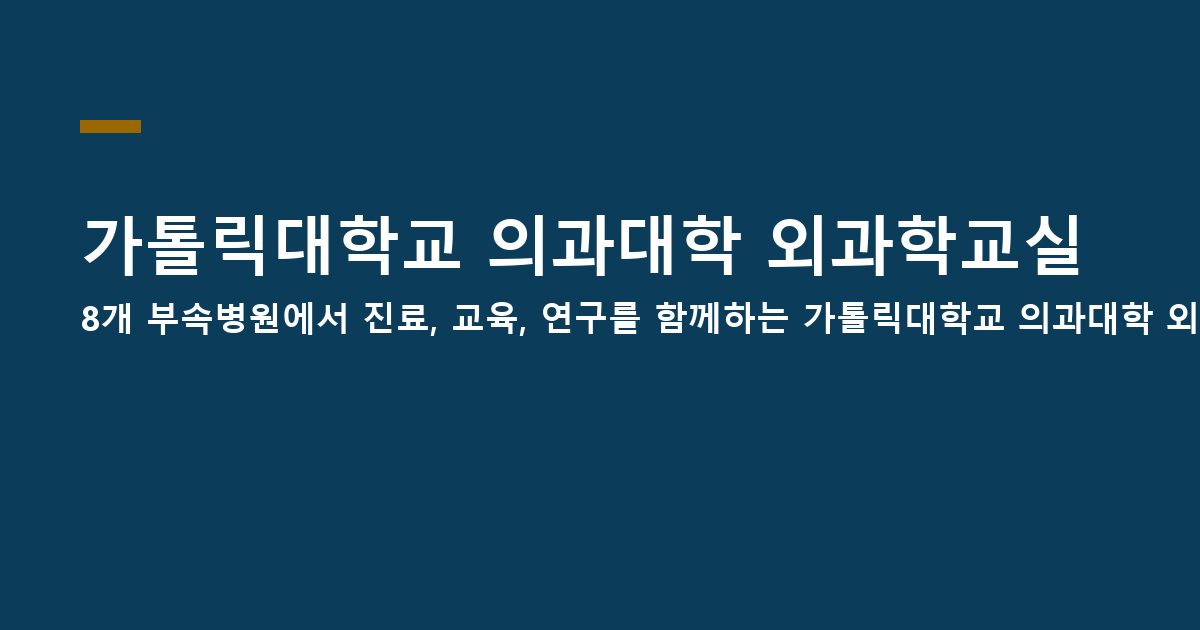
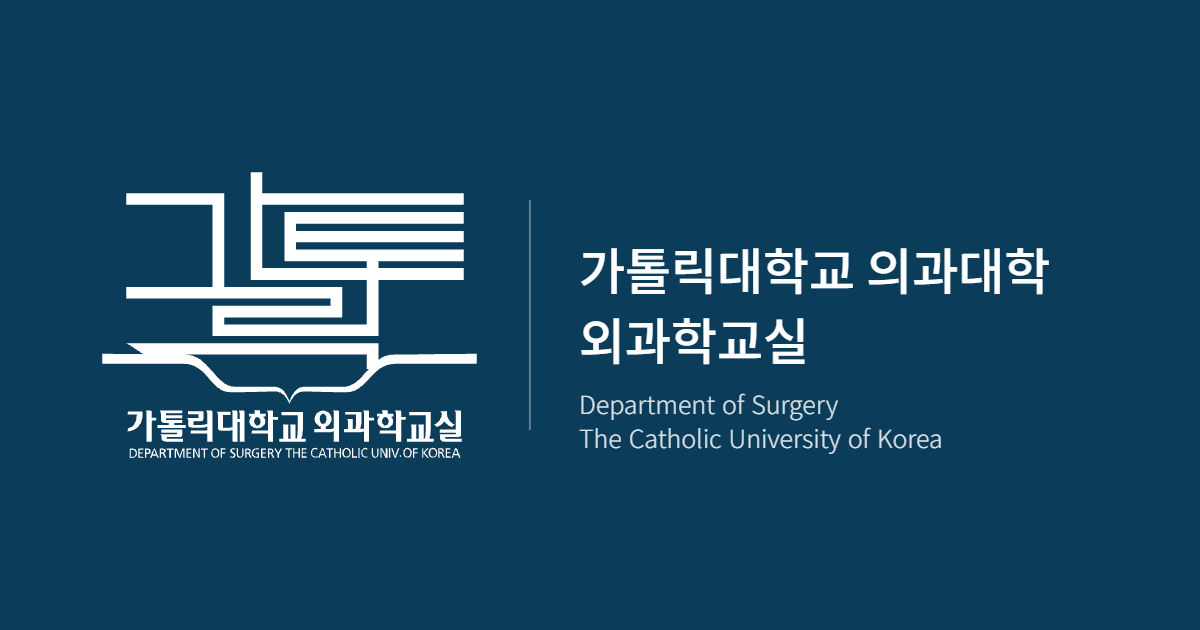
로고(교실, 가톨릭대학교), 파비콘, 공유 이미지, 스타일

Changed region(s): [[0.0617, 0.2714, 1.0, 0.7238], [0.4625, 0.6333, 0.8017, 0.7238], [0.0617, 0.181, 0.1233, 0.2111]]

diff --git a/assets/style.css b/assets/style.css
@@ -153,3 +153,69 @@ strong,b,th,.btn,.faq summary,.nav a[aria-current="page"]{font-weight:500}
 .people-name{font-size:1.3rem;font-weight:500}
 .people-period{font-variant-numeric:tabular-nums}
 @media (max-width:640px){.people-grid li{flex-direction:column;align-items:flex-start;gap:0.5rem;padding:0.8rem}.people-grid img{width:100%;max-width:150px;height:auto;aspect-ratio:3/4}.people-name{font-size:1.1rem}}
+
+/* ---- 2026-11-24 추가: 로고, 첫 화면, 바닥글, 행사, 조직도, 교수진 사진, 동문회 인용 ---- */
+.brand img{height:40px;width:auto}
+@media (prefers-color-scheme: dark){:root:not([data-theme="light"]) .brand img,:root:not([data-theme="light"]) .footer-logo-dept{filter:brightness(0) invert(1)}}
+:root[data-theme="dark"] .brand img,:root[data-theme="dark"] .footer-logo-dept{filter:brightness(0) invert(1)}
+.hero{background:linear-gradient(90deg,rgba(7,34,52,.93) 0%,rgba(11,61,91,.86) 55%,rgba(11,61,91,.74) 100%),url(events/hero-css2026.jpg) center 35%/cover no-repeat;padding:4.5rem 0 4rem}
+.hero .container{display:grid;grid-template-columns:auto minmax(0,1fr);column-gap:3rem;align-items:center}
+.hero .hero-logo{grid-row:1/span 3;height:170px;width:auto}
+.hero h1,.hero .lead,.hero .btns{grid-column:2}
+@media (max-width:760px){.hero{padding:2.5rem 0}.hero .container{grid-template-columns:1fr}.hero .hero-logo{grid-row:auto;height:96px;margin-bottom:1.2rem}.hero h1,.hero .lead,.hero .btns{grid-column:1}}
+.home-event{display:grid;grid-template-columns:minmax(0,1.1fr) minmax(0,1fr);gap:1.5rem;align-items:center;margin:1rem 0 1.5rem}
+.home-event img{display:block;width:100%;height:auto;border-radius:6px}
+.home-event h3{margin-top:0}
+@media (max-width:640px){.home-event{grid-template-columns:1fr}}
+.footer-logos{grid-column:1/-1;display:flex;align-items:center;gap:1.6rem;padding-bottom:1rem;border-bottom:1px solid var(--border)}
+.footer-logos img{display:block;height:56px;width:auto}
+.footer-logos a img{height:50px}
+/* 행사 */
+.event-head{display:grid;grid-template-columns:minmax(0,1fr) 220px;gap:2rem;align-items:start;margin:1rem 0 1.5rem}
+.event-info{margin:0;display:grid;grid-template-columns:5.5em minmax(0,1fr);gap:0.5rem 1rem}
+.event-info dt{color:var(--muted);font-weight:500}
+.event-info dd{margin:0}
+.event-info ul{margin:0;padding-left:1.1em}
+.event-doc{margin:0}
+.event-doc img{display:block;width:100%;height:auto;border:1px solid var(--border);border-radius:4px}
+.event-group{margin:1rem 0}
+.event-group img{display:block;width:100%;height:auto;border-radius:6px}
+.gallery{list-style:none;padding:0;margin:1rem 0 2.5rem;display:grid;grid-template-columns:repeat(3,minmax(0,1fr));gap:1rem 0.8rem}
+.gallery li{margin:0}
+.gallery img{display:block;width:100%;height:auto;aspect-ratio:3/2;object-fit:cover;border-radius:4px}
+.gallery span{display:block;margin-top:0.35rem;font-size:0.9rem;line-height:1.45;color:var(--muted)}
+@media (max-width:760px){.event-head{grid-template-columns:1fr}.event-doc{max-width:260px}.gallery{grid-template-columns:repeat(2,minmax(0,1fr))}}
+/* 조직도 */
+.org{margin:1rem 0 1.5rem;text-align:center}
+.org-box{display:inline-block;text-align:left;background:var(--surface);border:1px solid var(--border);border-top:3px solid var(--primary);border-radius:var(--radius);padding:0.8rem 1rem;min-width:12rem}
+.org-role{display:block;color:var(--primary);font-weight:500;font-size:0.95rem;margin-bottom:0.2rem}
+.org-box strong{font-size:1.25rem;font-weight:500}
+.org-note{display:block;color:var(--muted);font-size:0.9rem}
+.org-top{display:grid;grid-template-columns:minmax(0,1fr) auto minmax(0,1fr);align-items:center}
+.org-top .org-head{grid-column:2}
+.org-top .org-audit{grid-column:3;justify-self:start;margin-left:2.5rem;position:relative;min-width:9rem}
+.org-top .org-audit::before{content:"";position:absolute;left:-2.5rem;top:50%;width:2.5rem;border-top:2px dashed var(--border)}
+.org-audit{border-top-color:var(--accent)}
+.org-v{width:2px;height:1.6rem;background:var(--border);margin:0 auto}
+.org-wide{display:block;max-width:40rem;margin:0 auto}
+.org-list{list-style:none;margin:0.3rem 0 0;padding:0}
+.org-list li{display:flex;gap:0.8rem;padding:0.35rem 0;border-top:1px solid var(--border);margin:0}
+.org-list li:first-child{border-top:0}
+.org-list li span{flex:none;width:8.5em;color:var(--muted)}
+.org-split{display:grid;grid-template-columns:1fr 1fr;gap:1.5rem;position:relative;padding-top:1.6rem;text-align:left}
+.org-split::before{content:"";position:absolute;top:0;left:25%;right:25%;height:1.6rem;border:2px solid var(--border);border-bottom:0}
+.org-split .org-box{display:block}
+.org-date{color:var(--muted);font-size:0.9rem;text-align:right;margin:0.6rem 0 0}
+@media (max-width:640px){.org-split{grid-template-columns:1fr;padding-top:0;gap:0.8rem}.org-split::before{display:none}.org-top{grid-template-columns:1fr;gap:0.8rem}.org-top .org-head,.org-top .org-audit{grid-column:1;margin-left:0}.org-top .org-audit::before{display:none}.org-box{min-width:0;width:100%}.org-list li span{width:7em}}
+/* 교수진 사진 */
+.fac-list{display:flex;flex-wrap:wrap;gap:0.7rem 0.6rem}
+.fac{margin:0;width:56px;text-align:center}
+.fac img{display:block;width:56px;height:75px;object-fit:cover;background:var(--bg);border-radius:3px}
+.fac figcaption{margin-top:0.25rem;font-size:0.88rem;line-height:1.3;word-break:keep-all;color:var(--text)}
+.fac-chair{display:block;font-size:0.78rem;color:var(--primary)}
+/* 동문회 인용 */
+.quote{margin:1.2rem 0 1.5rem}
+.quote blockquote{margin:0;border-left:4px solid var(--primary);padding:0.3rem 1rem;font-size:1.12rem;color:var(--text)}
+.quote blockquote p{margin:0}
+.quote figcaption{padding-left:1.25rem;margin-top:0.4rem}
+main:has(> .hero:first-child){padding-top:0}
